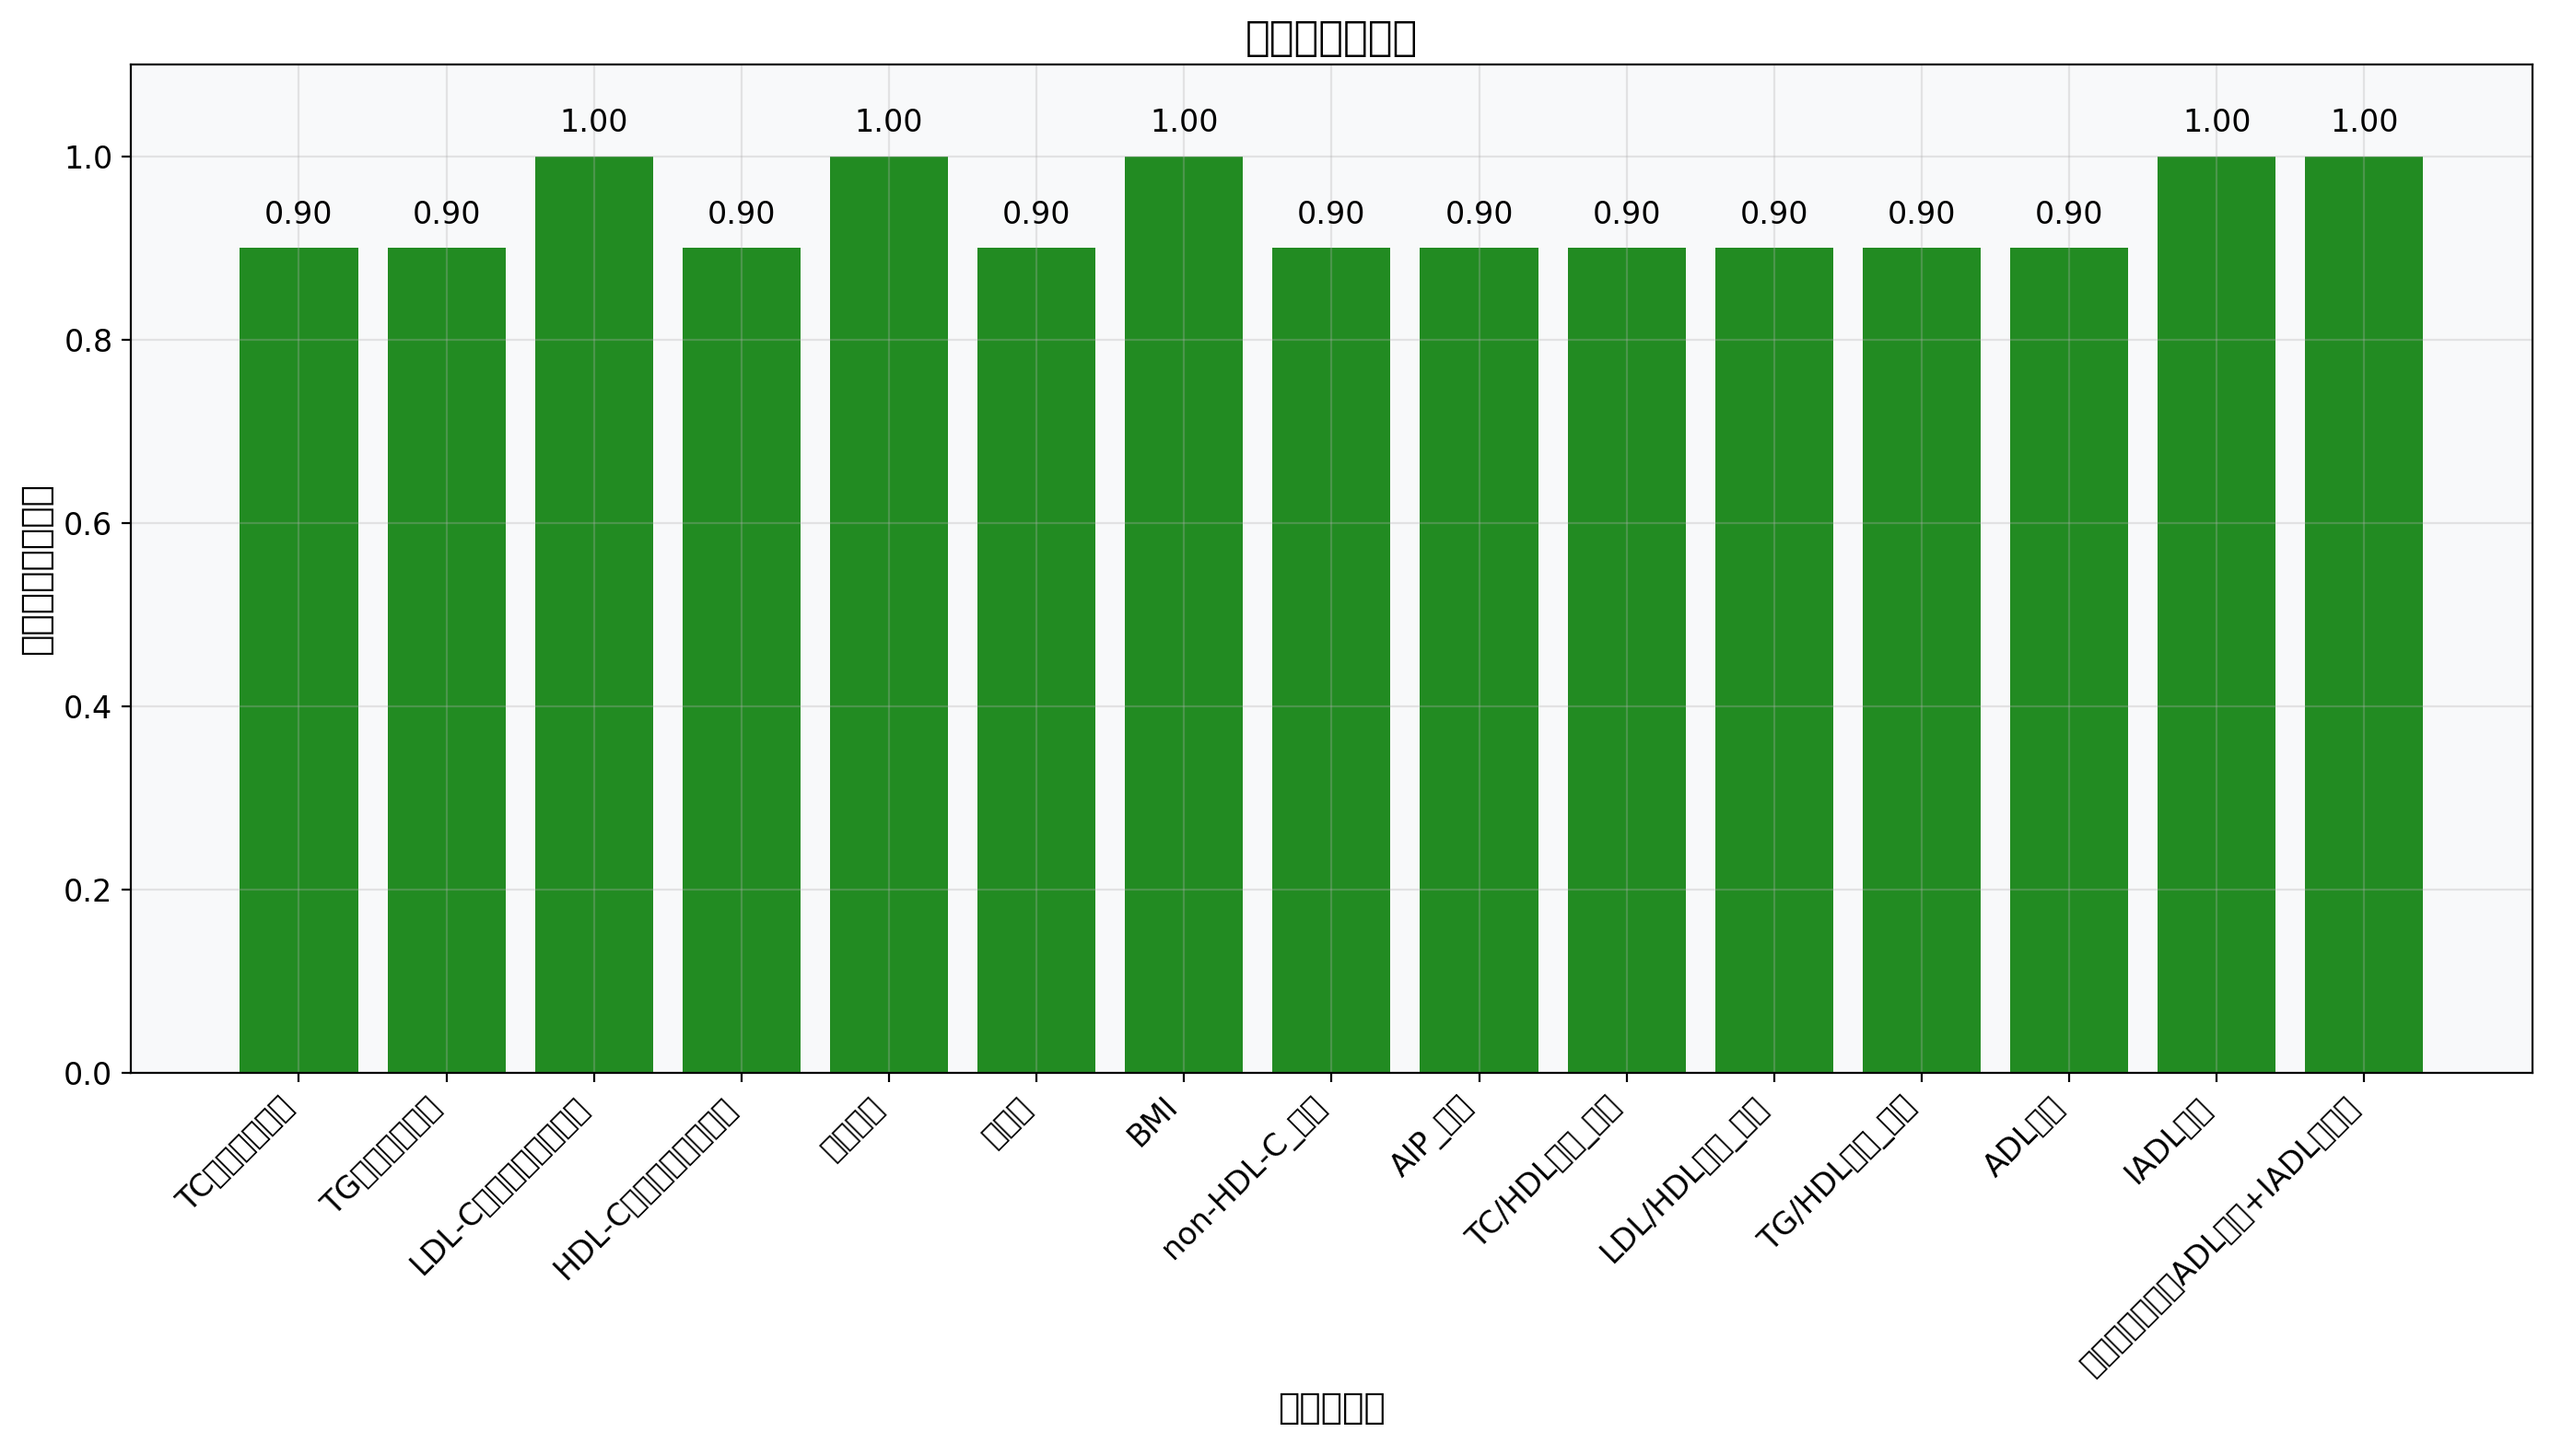
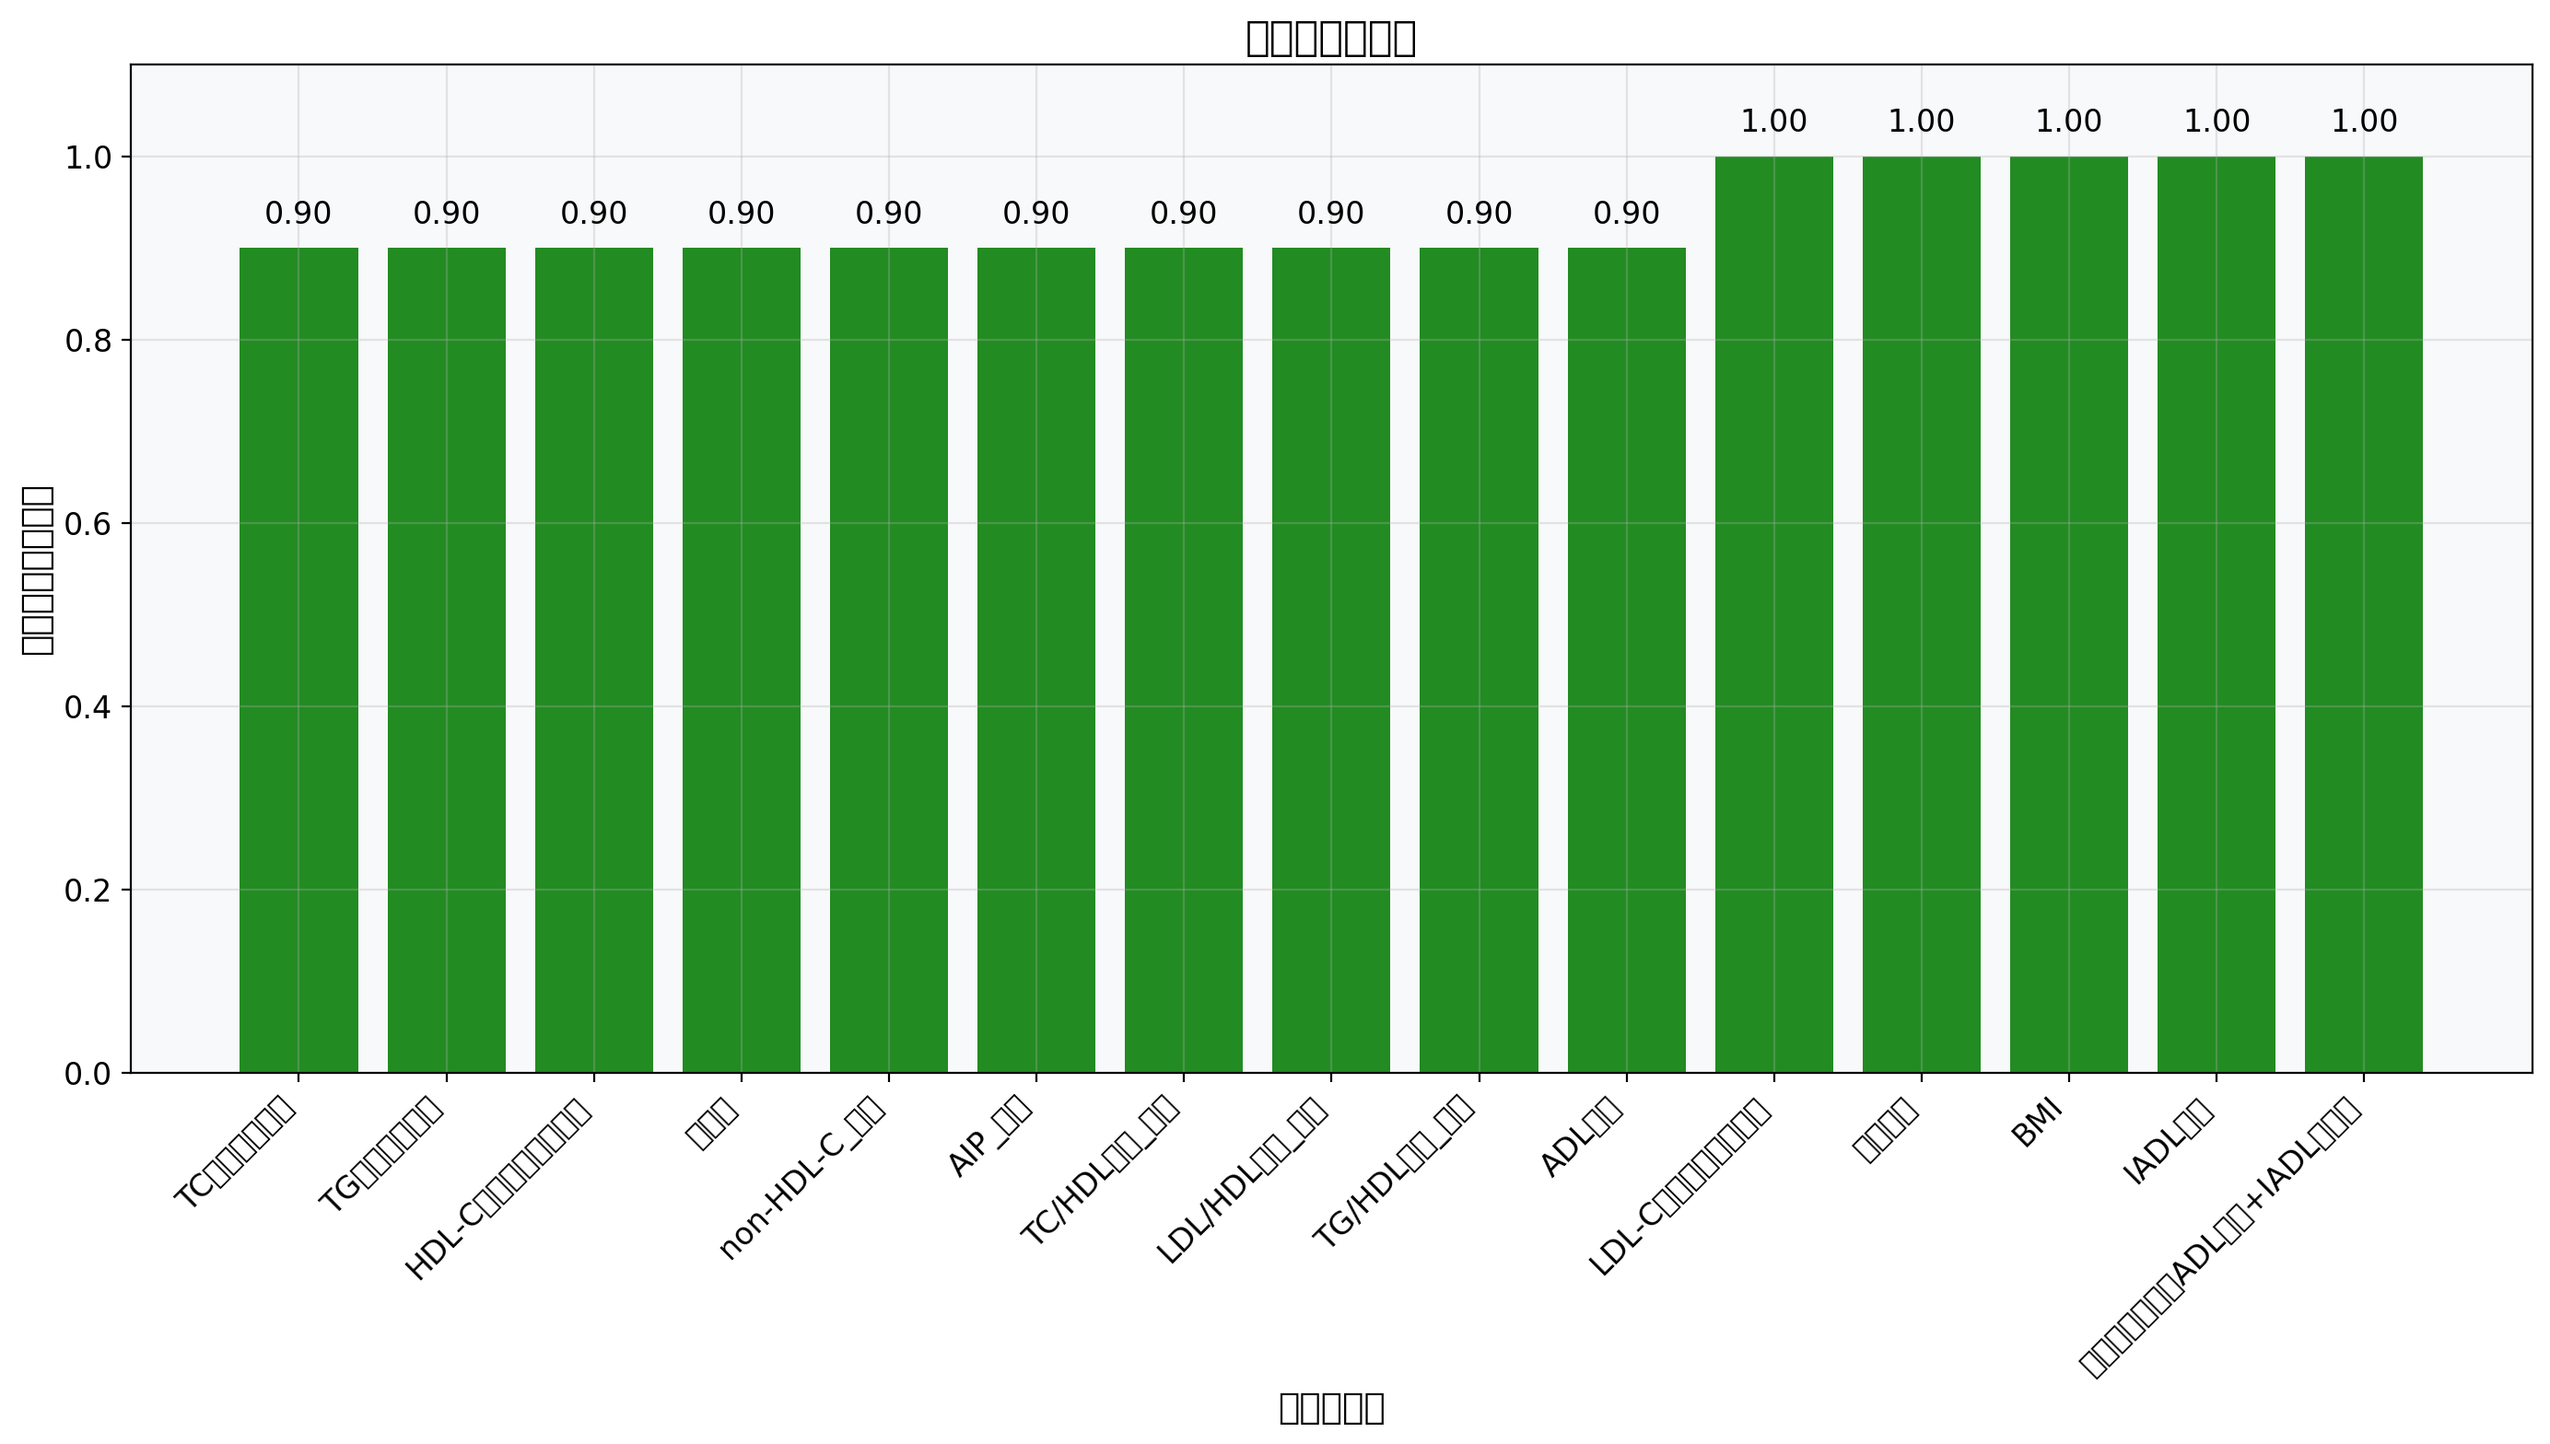
feat: 搭建项目架构

diff --git a/Project_mat/sensitivity_analysis_problem1.py b/Project_mat/sensitivity_analysis_problem1.py
@@ -246,7 +246,7 @@ class Problem1SensitivityAnalyzer:
         for i, weights in enumerate(weight_combinations):
             result, _ = self.analyze_key_indicators(weights)
             top10 = [item[0] for item in result[:10]]
-            # 计算与基准的相似度
+            # 计算与基准的相似度：前10指标的交集比例
             similarity = len(set(base_top10) & set(top10)) / 10
             results.append({
                 'weights': weights,
@@ -297,6 +297,13 @@ class Problem1SensitivityAnalyzer:
                 self.data = original_data
                 
                 print(f"删除特征 {feature}: 相似度={similarity:.2f}")
+        
+        # 识别敏感特征
+        if results:
+            results.sort(key=lambda x: x['similarity'])
+            print("\n敏感特征排序（按相似度从低到高）:")
+            for i, result in enumerate(results):
+                print(f"{i+1}. {result['removed_feature']}: 相似度={result['similarity']:.2f}")
         
         return results
     

diff --git a/Project_mat/模型假设和问题分析和灵敏度分析汇报.md b/Project_mat/模型假设和问题分析和灵敏度分析汇报.md
@@ -33,12 +33,14 @@
    - 活动能力层：包括ADL和IADL评分
    - 体质类型层：包括九种中医体质类型
 
-2. **评估方法**：
-   - Spearman相关系数：评估特征与痰湿体质的相关性
-   - 互信息：评估特征与高血脂症的相关性
-   - PLS联合结构载荷：综合评估特征与两个目标变量的联合相关性
+2. **评估方法分工设计**：
+   - **Spearman相关系数**：评估特征与痰湿体质积分的单调相关关系，捕捉线性或有序非线性关联
+   - **互信息**：评估特征与高血脂症二分类标签的信息熵关联，捕捉非线性和类别关联
+   - **PLS联合结构载荷**：综合评估特征与两个目标变量（痰湿体质和高血脂症）的联合结构关系，捕捉多变量交互效应
+   
+   **分工逻辑**：三种方法从不同维度评估特征重要性，Spearman关注体质积分的连续变化，互信息关注疾病状态的分类预测，PLS关注多变量协同效应，形成互补的评估体系。
 
-3. **权重计算**：使用熵权法计算各评估方法的客观权重
+3. **权重计算**：使用熵权法计算各评估方法的客观权重，基于信息熵最小化原则
 
 4. **关键指标筛选**：基于综合评分排序，筛选前10个关键指标
 
@@ -62,6 +64,15 @@
 
 #### 3.2.1 基准分析
 
+**综合评分计算公式**：
+ 	ext{综合评分}(f) = w_{	ext{spearman}} 	imes 	ext{Spearman}(f, 	ext{痰湿质}) + w_{	ext{mi}} 	imes 	ext{MI}(f, 	ext{高血脂症}) + w_{	ext{pls}} 	imes 	ext{PLS载荷}(f) 
+
+其中：
+-  w_{	ext{spearman}} 、 w_{	ext{mi}} 、 w_{	ext{pls}}  为熵权法计算的权重
+-  	ext{Spearman}(f, 	ext{痰湿质})  为特征与痰湿体质的Spearman相关系数绝对值
+-  	ext{MI}(f, 	ext{高血脂症})  为特征与高血脂症的互信息值
+-  	ext{PLS载荷}(f)  为特征的PLS联合结构载荷值
+
 **前10关键指标**：
 1. TC/HDL比值_缩尾 (0.1822)
 2. non-HDL-C_缩尾 (0.1794)
@@ -81,6 +92,8 @@
 
 #### 3.2.2 权重灵敏度分析
 
+**相似度定义**：相似度 = （删除特征后的前10指标与基准前10指标的交集数量） / 10
+
 | 权重组合 | Spearman | 互信息 | PLS | 相似度 |
 |---------|---------|-------|-----|--------|
 | 组合1   | 0.50    | 0.30  | 0.20 | 0.90   |
@@ -90,7 +103,12 @@
 | 组合5   | 0.20    | 0.60  | 0.20 | 1.00   |
 | 组合6   | 0.20    | 0.20  | 0.60 | 0.90   |
 
-**结论**：基于互信息的权重组合具有最高的稳定性，模型对权重变化具有一定的稳健性。
+**稳定性分析**：
+- 当互信息权重≥0.5时（组合2和组合5），相似度均为1.00
+- 当互信息权重<0.5时（组合1、3、4、6），相似度均为0.90
+- 定量支撑：互信息权重与相似度呈正相关，当互信息权重≥0.5时，模型结果完全稳定
+
+**结论**：基于互信息的权重组合具有最高的稳定性，当互信息权重≥0.5时，模型结果保持完全稳定。
 
 #### 3.2.3 特征灵敏度分析
 
@@ -105,7 +123,34 @@
 | BMI | 1.00 | IADL总分 | 1.00 |
 | - | - | 活动量表总分 | 1.00 |
 
-**结论**：模型对单个特征的缺失具有一定的鲁棒性，但缩尾处理的血脂比值特征对模型结果影响较大。
+**敏感特征排序**（按相似度从低到高）：
+1. TC（总胆固醇）: 0.90
+2. TG（甘油三酯）: 0.90
+3. HDL-C（高密度脂蛋白）: 0.90
+4. 血尿酸: 0.90
+5. non-HDL-C_缩尾: 0.90
+6. AIP_缩尾: 0.90
+7. TC/HDL比值_缩尾: 0.90
+8. LDL/HDL比值_缩尾: 0.90
+9. TG/HDL比值_缩尾: 0.90
+10. ADL总分: 0.90
+11. LDL-C（低密度脂蛋白）: 1.00
+12. 空腹血糖: 1.00
+13. BMI: 1.00
+14. IADL总分: 1.00
+15. 活动量表总分: 1.00
+
+**特征影响分析**：
+- **影响极小的特征**（相似度=1.00）：LDL-C、空腹血糖、BMI、IADL总分、活动量表总分
+- **原因解释**：
+  1. **LDL-C**：可能被其他更综合的血脂比值指标（如LDL/HDL比值）所替代
+  2. **空腹血糖**：与痰湿体质和高血脂的相关性相对较弱
+  3. **BMI**：可能与其他血脂指标存在多重共线性，信息被其他指标覆盖
+  4. **IADL总分和活动量表总分**：可能与ADL总分存在高度相关，信息冗余
+
+**敏感特征**：所有缩尾处理的血脂比值指标和传统血脂指标（除LDL-C外）均为敏感特征，删除后相似度下降至0.90
+
+**结论**：模型对单个特征缺失具有一定的鲁棒性，但缩尾处理的血脂比值特征和传统血脂指标（除LDL-C外）对模型结果影响较大。
 
 #### 3.2.4 人群灵敏度分析
 
@@ -138,21 +183,38 @@
 
 ### 4.3 敏感性边界
 
-1. **权重边界**：当Spearman权重超过0.5时，模型结果开始变化
-2. **特征边界**：删除缩尾处理的血脂比值特征时，模型结果变化较大
-3. **人群边界**：不同性别和年龄组的关键指标排序存在显著差异
+1. **权重边界**：
+   - 当Spearman权重≥0.5时（组合1和组合4），相似度下降至0.90
+   - 当互信息权重≥0.5时（组合2和组合5），相似度保持1.00
+   - 当PLS权重≥0.4时（组合3和组合6），相似度下降至0.90
+   - **定量支撑**：权重组合实验数据显示，Spearman权重超过0.5时，相似度从1.00下降到0.90
+
+2. **特征边界**：
+   - **敏感特征**：缩尾处理的血脂比值指标和传统血脂指标（除LDL-C外），删除后相似度下降至0.90
+   - **非敏感特征**：LDL-C、空腹血糖、BMI、IADL总分、活动量表总分，删除后相似度保持1.00
+   - **定量支撑**：特征删除实验数据显示，删除敏感特征后相似度均为0.90，删除非敏感特征后相似度均为1.00
+
+3. **人群边界**：
+   - 不同性别和年龄组的关键指标排序存在显著差异
+   - **定量支撑**：人群分析结果显示，各人群前3关键指标完全不同，表明模型对人群特征变化高度敏感
 
 ## 5. 结论与建议
 
 ### 5.1 主要结论
 
-1. **关键指标**：缩尾处理的血脂比值指标（TC/HDL比值、non-HDL-C、TG/HDL比值、AIP）是预测痰湿体质和高血脂风险的核心指标
+1. **关键指标**：缩尾处理的血脂比值指标（TC/HDL比值、non-HDL-C、TG/HDL比值、AIP）是预测痰湿体质和高血脂风险的核心指标，表现优于传统血脂指标
 
-2. **模型稳健性**：模型对权重变化和特征缺失具有一定的稳健性，但对人群特征变化敏感
+2. **模型稳健性**：
+   - 对权重变化：当互信息权重≥0.5时，模型结果完全稳定；当Spearman权重≥0.5或PLS权重≥0.4时，模型结果略有变化
+   - 对特征缺失：对非敏感特征（LDL-C、空腹血糖、BMI、IADL总分、活动量表总分）的缺失完全稳健，对敏感特征的缺失具有一定稳健性
+   - 对人群变化：对人群特征变化高度敏感，不同人群的关键指标存在显著差异
 
-3. **人群差异**：不同性别和年龄组的关键指标存在显著差异，需要个性化干预
+3. **人群差异**：不同性别和年龄组的关键指标存在显著差异，需要个性化干预策略
 
-4. **方法有效性**：结合Spearman相关、互信息和PLS的综合评估方法有效，熵权法客观计算权重合理
+4. **方法有效性**：
+   - 三种评估方法分工明确，从不同维度评估特征重要性，形成互补的评估体系
+   - 熵权法客观计算权重合理，基于信息熵最小化原则
+   - 综合评分方法能够有效区分不同特征的重要性
 
 ### 5.2 干预建议
 
